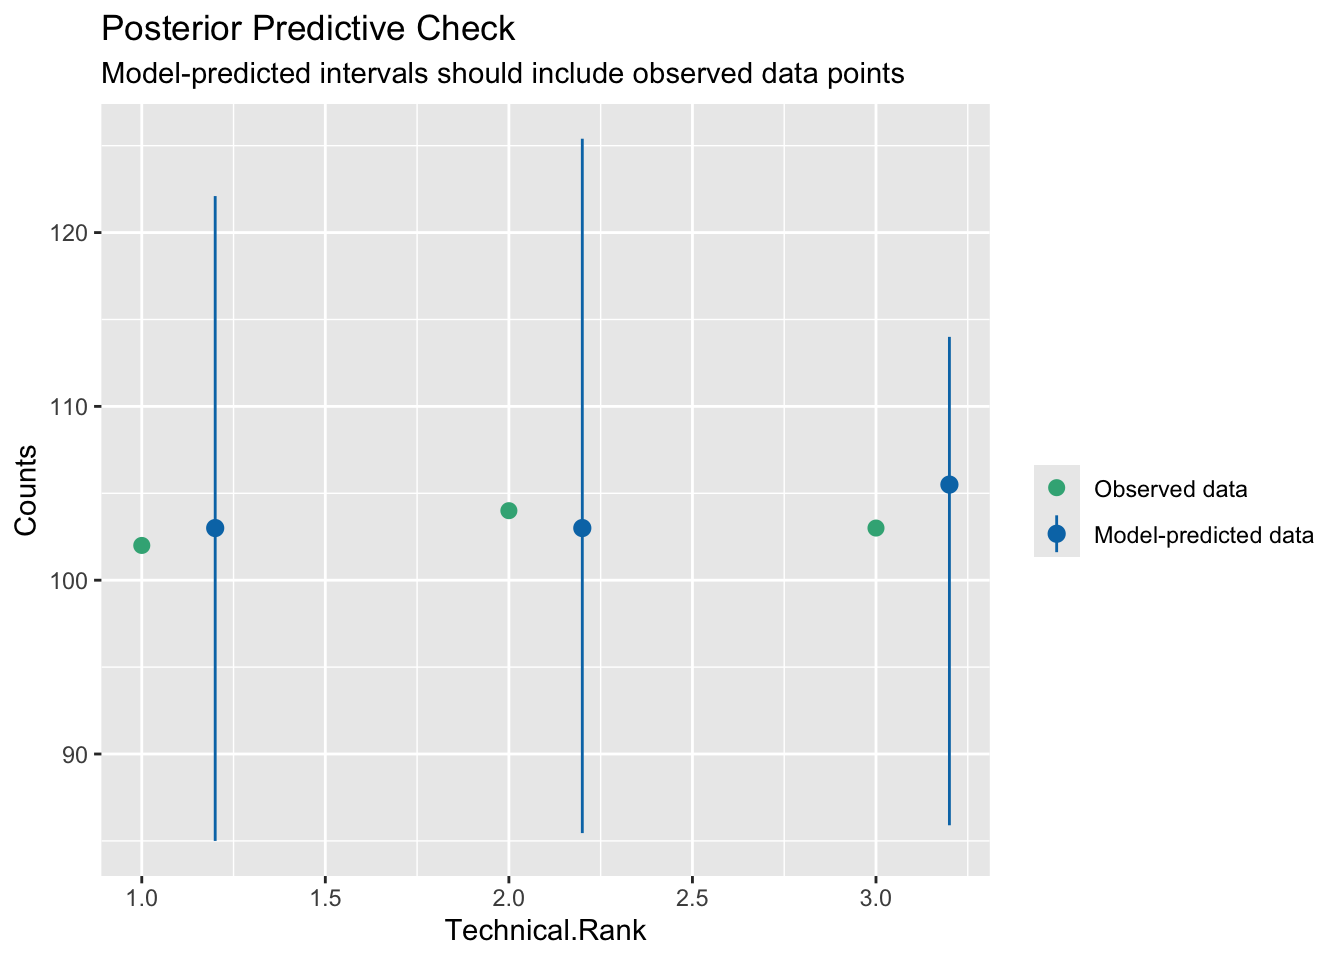
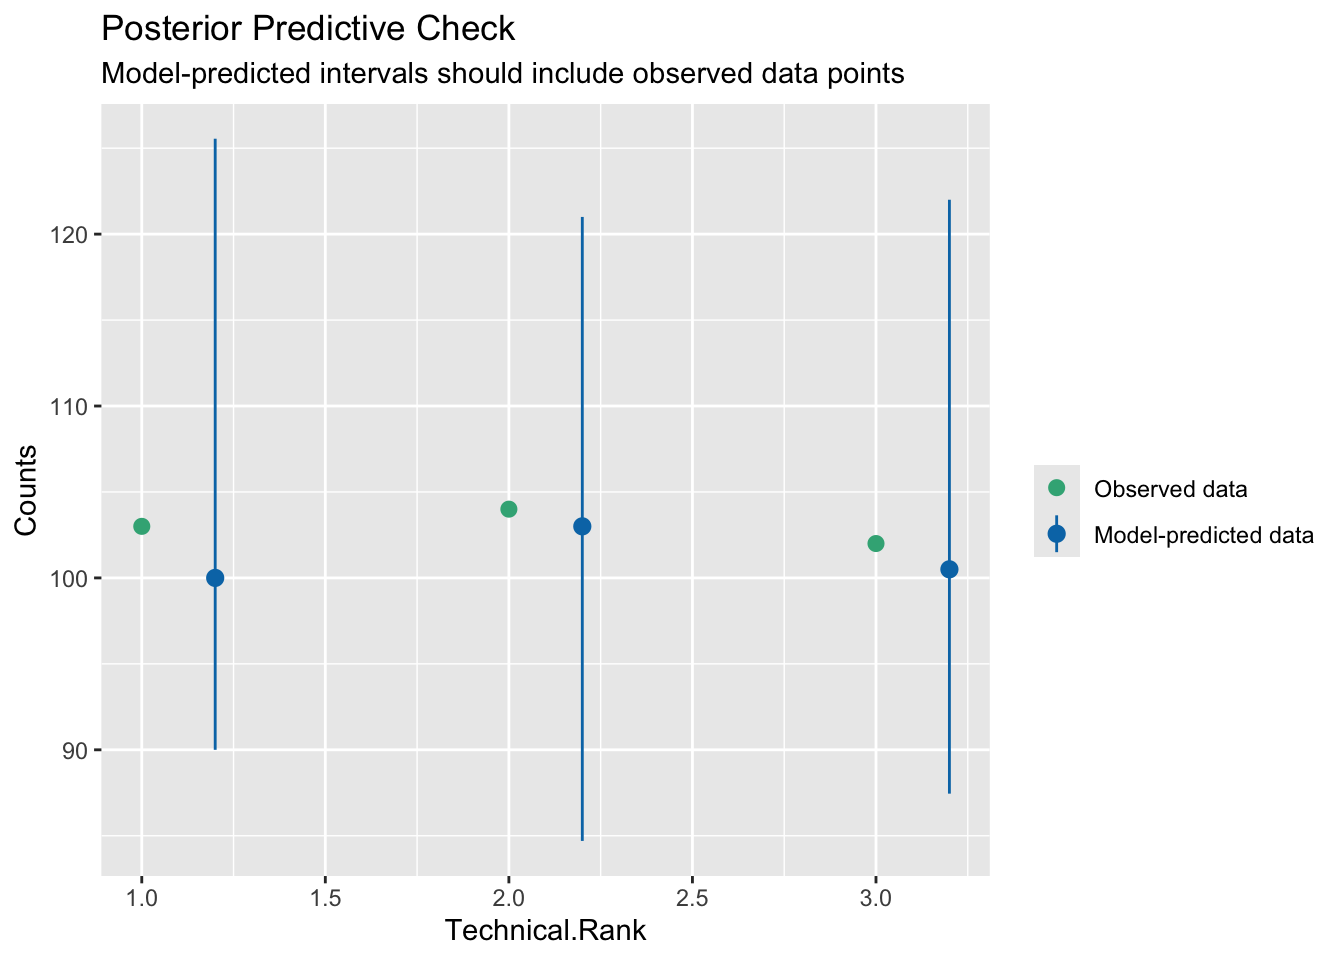
rendered

diff --git a/docs/posts/ord_lab_q.html b/docs/posts/ord_lab_q.html
@@ -263,14 +263,14 @@ pre > code.sourceCode > span > a:first-child::before { text-decoration: underlin
 <span id="cb4-2"><a href="#cb4-2" aria-hidden="true" tabindex="-1"></a>gbbo_age <span class="ot">&lt;-</span> gbbo_filter <span class="sc">%&gt;%</span></span>
 <span id="cb4-3"><a href="#cb4-3" aria-hidden="true" tabindex="-1"></a>  <span class="fu">group_by</span>(Age, Technical.Rank) <span class="sc">%&gt;%</span></span>
 <span id="cb4-4"><a href="#cb4-4" aria-hidden="true" tabindex="-1"></a>  <span class="fu">summarise</span>(<span class="at">count =</span> <span class="fu">n</span>(), <span class="at">.groups =</span> <span class="st">"drop"</span>) <span class="sc">%&gt;%</span></span>
-<span id="cb4-5"><a href="#cb4-5" aria-hidden="true" tabindex="-1"></a>  <span class="fu">group_by</span>(Technical.Rank) <span class="sc">%&gt;%</span></span>
+<span id="cb4-5"><a href="#cb4-5" aria-hidden="true" tabindex="-1"></a>  <span class="fu">group_by</span>(Age) <span class="sc">%&gt;%</span></span>
 <span id="cb4-6"><a href="#cb4-6" aria-hidden="true" tabindex="-1"></a>  <span class="fu">mutate</span>(<span class="at">percentage =</span> count <span class="sc">/</span> <span class="fu">sum</span>(count) <span class="sc">*</span> <span class="dv">100</span>)</span>
 <span id="cb4-7"><a href="#cb4-7" aria-hidden="true" tabindex="-1"></a></span>
 <span id="cb4-8"><a href="#cb4-8" aria-hidden="true" tabindex="-1"></a><span class="co"># Plot for Age</span></span>
-<span id="cb4-9"><a href="#cb4-9" aria-hidden="true" tabindex="-1"></a><span class="fu">ggplot</span>(gbbo_age, <span class="fu">aes</span>(<span class="at">x =</span> Technical.Rank, <span class="at">y =</span> percentage, <span class="at">fill =</span> Age)) <span class="sc">+</span></span>
-<span id="cb4-10"><a href="#cb4-10" aria-hidden="true" tabindex="-1"></a>  <span class="fu">geom_bar</span>(<span class="at">stat =</span> <span class="st">"identity"</span>) <span class="sc">+</span></span>
+<span id="cb4-9"><a href="#cb4-9" aria-hidden="true" tabindex="-1"></a><span class="fu">ggplot</span>(gbbo_age, <span class="fu">aes</span>(<span class="at">x =</span> Age, <span class="at">y =</span> percentage, <span class="at">fill =</span> Technical.Rank)) <span class="sc">+</span></span>
+<span id="cb4-10"><a href="#cb4-10" aria-hidden="true" tabindex="-1"></a>  <span class="fu">geom_histogram</span>(<span class="at">stat =</span> <span class="st">"identity"</span>) <span class="sc">+</span></span>
 <span id="cb4-11"><a href="#cb4-11" aria-hidden="true" tabindex="-1"></a>  <span class="fu">labs</span>(<span class="at">title =</span> <span class="st">"Percentage of Bakers by Rank and Age"</span>,</span>
-<span id="cb4-12"><a href="#cb4-12" aria-hidden="true" tabindex="-1"></a>       <span class="at">x =</span> <span class="st">"TechnicalRank"</span>,</span>
+<span id="cb4-12"><a href="#cb4-12" aria-hidden="true" tabindex="-1"></a>       <span class="at">x =</span> <span class="st">"Age"</span>,</span>
 <span id="cb4-13"><a href="#cb4-13" aria-hidden="true" tabindex="-1"></a>       <span class="at">y =</span> <span class="st">"Percentage"</span>)</span></code><button title="Copy to Clipboard" class="code-copy-button"><i class="bi"></i></button></pre></div>
 </details>
 <div class="cell-output-display">
@@ -284,54 +284,71 @@ pre > code.sourceCode > span > a:first-child::before { text-decoration: underlin
 </section>
 <section id="ordinal-analysis" class="level2">
 <h2 class="anchored" data-anchor-id="ordinal-analysis">Ordinal Analysis</h2>
-<ul>
-<li><p>If you haven’t already, convert the outcome variable to an ordered factor. What does the order here represent?</p>
-<ul>
-<li><p>Order is inverse where 1 is better than 2 which is better than 3</p>
 <div class="cell">
 <details class="code-fold">
 <summary>Code</summary>
-<div class="sourceCode cell-code" id="cb5"><pre class="sourceCode r code-with-copy"><code class="sourceCode r"><span id="cb5-1"><a href="#cb5-1" aria-hidden="true" tabindex="-1"></a>gbbo_filter<span class="sc">$</span>Technical.Rank <span class="ot">&lt;-</span> <span class="fu">factor</span>(gbbo_filter<span class="sc">$</span>Technical.Rank, <span class="at">levels =</span> <span class="fu">c</span>(<span class="st">"3"</span>, <span class="st">"2"</span>, <span class="st">"1"</span>), <span class="at">ordered =</span> <span class="cn">TRUE</span>) </span></code><button title="Copy to Clipboard" class="code-copy-button"><i class="bi"></i></button></pre></div>
+<div class="sourceCode cell-code" id="cb5"><pre class="sourceCode r code-with-copy"><code class="sourceCode r"><span id="cb5-1"><a href="#cb5-1" aria-hidden="true" tabindex="-1"></a>gbbo_filter <span class="ot">&lt;-</span> gbbo_filter <span class="sc">%&gt;%</span> </span>
+<span id="cb5-2"><a href="#cb5-2" aria-hidden="true" tabindex="-1"></a>    <span class="fu">mutate</span>(<span class="at">Technical.Rank =</span> <span class="fu">factor</span>(Technical.Rank, <span class="at">levels =</span> <span class="fu">c</span>(<span class="dv">1</span>, <span class="dv">2</span>, <span class="dv">3</span>), <span class="at">ordered =</span> <span class="cn">TRUE</span>),</span>
+<span id="cb5-3"><a href="#cb5-3" aria-hidden="true" tabindex="-1"></a>           <span class="at">Gender =</span> <span class="fu">factor</span>(Gender))</span></code><button title="Copy to Clipboard" class="code-copy-button"><i class="bi"></i></button></pre></div>
 </details>
-</div></li>
-</ul></li>
-<li><p>Convert input variables to categorical factors as appropriate.</p>
-<div class="cell">
-<details class="code-fold">
-<summary>Code</summary>
-<div class="sourceCode cell-code" id="cb6"><pre class="sourceCode r code-with-copy"><code class="sourceCode r"><span id="cb6-1"><a href="#cb6-1" aria-hidden="true" tabindex="-1"></a><span class="fu">str</span>(gbbo_filter)</span></code><button title="Copy to Clipboard" class="code-copy-button"><i class="bi"></i></button></pre></div>
-</details>
-<div class="cell-output cell-output-stdout">
-<pre><code>'data.frame':   309 obs. of  3 variables:
- $ Gender        : chr  "F" "M" "M" "F" ...
- $ Age           : int  30 31 24 45 25 37 24 37 31 24 ...
- $ Technical.Rank: Ord.factor w/ 3 levels "3"&lt;"2"&lt;"1": 2 1 3 2 3 1 3 1 2 1 ...</code></pre>
 </div>
+<ul>
+<li><p>Convert input variables to categorical factors as appropriate (done in code above)</p>
+<div class="cell">
+<details class="code-fold">
+<summary>Code</summary>
+<div class="sourceCode cell-code" id="cb6"><pre class="sourceCode r code-with-copy"><code class="sourceCode r"><span id="cb6-1"><a href="#cb6-1" aria-hidden="true" tabindex="-1"></a><span class="do">## done in code above</span></span></code><button title="Copy to Clipboard" class="code-copy-button"><i class="bi"></i></button></pre></div>
+</details>
 </div></li>
 <li><p>Run a ordinal logistic regression model against all relevant input variables. Interpret the effects for <code>Gender</code>, <code>Age</code> and <code>Gender*Age</code> (even if they are non-significant).</p>
 <div class="cell">
 <details class="code-fold">
 <summary>Code</summary>
-<div class="sourceCode cell-code" id="cb8"><pre class="sourceCode r code-with-copy"><code class="sourceCode r"><span id="cb8-1"><a href="#cb8-1" aria-hidden="true" tabindex="-1"></a>m <span class="ot">&lt;-</span> MASS<span class="sc">::</span><span class="fu">polr</span>(Technical.Rank <span class="sc">~</span> Gender <span class="sc">+</span> Age <span class="sc">+</span> Gender<span class="sc">*</span>Age, <span class="at">data =</span> gbbo_filter, <span class="at">Hess=</span><span class="cn">TRUE</span>)</span>
-<span id="cb8-2"><a href="#cb8-2" aria-hidden="true" tabindex="-1"></a></span>
-<span id="cb8-3"><a href="#cb8-3" aria-hidden="true" tabindex="-1"></a><span class="do">## view a summary of the model</span></span>
-<span id="cb8-4"><a href="#cb8-4" aria-hidden="true" tabindex="-1"></a>m <span class="sc">%&gt;%</span> </span>
-<span id="cb8-5"><a href="#cb8-5" aria-hidden="true" tabindex="-1"></a>  <span class="fu">tidy</span>()</span></code><button title="Copy to Clipboard" class="code-copy-button"><i class="bi"></i></button></pre></div>
+<div class="sourceCode cell-code" id="cb7"><pre class="sourceCode r code-with-copy"><code class="sourceCode r"><span id="cb7-1"><a href="#cb7-1" aria-hidden="true" tabindex="-1"></a>m <span class="ot">&lt;-</span> <span class="fu">clm</span>(Technical.Rank <span class="sc">~</span> Gender <span class="sc">+</span> Age <span class="sc">+</span> Gender<span class="sc">*</span>Age, <span class="at">data =</span> gbbo_filter)</span>
+<span id="cb7-2"><a href="#cb7-2" aria-hidden="true" tabindex="-1"></a></span>
+<span id="cb7-3"><a href="#cb7-3" aria-hidden="true" tabindex="-1"></a><span class="do">## view a summary of the model</span></span>
+<span id="cb7-4"><a href="#cb7-4" aria-hidden="true" tabindex="-1"></a>m <span class="sc">%&gt;%</span> </span>
+<span id="cb7-5"><a href="#cb7-5" aria-hidden="true" tabindex="-1"></a>  <span class="fu">tidy</span>()</span></code><button title="Copy to Clipboard" class="code-copy-button"><i class="bi"></i></button></pre></div>
 </details>
 <div class="cell-output cell-output-stdout">
-<pre><code># A tibble: 5 × 5
-  term        estimate std.error statistic coef.type  
-  &lt;chr&gt;          &lt;dbl&gt;     &lt;dbl&gt;     &lt;dbl&gt; &lt;chr&gt;      
-1 GenderM      1.15       0.673     1.71   coefficient
-2 Age          0.0231     0.0125    1.85   coefficient
-3 GenderM:Age -0.0388     0.0185   -2.09   coefficient
-4 3|2         -0.00495    0.452    -0.0109 scale      
-5 2|1          1.42       0.460     3.08   scale      </code></pre>
+<pre><code># A tibble: 5 × 6
+  term        estimate std.error statistic p.value coef.type
+  &lt;chr&gt;          &lt;dbl&gt;     &lt;dbl&gt;     &lt;dbl&gt;   &lt;dbl&gt; &lt;chr&gt;    
+1 1|2         -1.42       0.460    -3.08   0.00205 intercept
+2 2|3          0.00494    0.452     0.0109 0.991   intercept
+3 GenderM     -1.15       0.673    -1.71   0.0876  location 
+4 Age         -0.0231     0.0125   -1.85   0.0636  location 
+5 GenderM:Age  0.0388     0.0185    2.09   0.0363  location </code></pre>
 </div>
 </div></li>
 <li><p>Test if the interaction is warranted</p></li>
 </ul>
 <p>#Hint: You need to create two models with clm(); one with interaction and one without. #Then you compare them using the anova test using anova()</p>
+<div class="cell">
+<details class="code-fold">
+<summary>Code</summary>
+<div class="sourceCode cell-code" id="cb9"><pre class="sourceCode r code-with-copy"><code class="sourceCode r"><span id="cb9-1"><a href="#cb9-1" aria-hidden="true" tabindex="-1"></a>m <span class="ot">&lt;-</span> <span class="fu">clm</span>(Technical.Rank <span class="sc">~</span> Gender <span class="sc">*</span> Age, <span class="at">data =</span> gbbo_filter)</span>
+<span id="cb9-2"><a href="#cb9-2" aria-hidden="true" tabindex="-1"></a></span>
+<span id="cb9-3"><a href="#cb9-3" aria-hidden="true" tabindex="-1"></a>m0 <span class="ot">&lt;-</span> <span class="fu">clm</span>(Technical.Rank <span class="sc">~</span> Gender <span class="sc">+</span> Age, <span class="at">data =</span> gbbo_filter)</span>
+<span id="cb9-4"><a href="#cb9-4" aria-hidden="true" tabindex="-1"></a></span>
+<span id="cb9-5"><a href="#cb9-5" aria-hidden="true" tabindex="-1"></a><span class="co"># Compare the two models using ANOVA</span></span>
+<span id="cb9-6"><a href="#cb9-6" aria-hidden="true" tabindex="-1"></a>comparing <span class="ot">&lt;-</span> <span class="fu">anova</span>(m, m0)</span>
+<span id="cb9-7"><a href="#cb9-7" aria-hidden="true" tabindex="-1"></a>comparing <span class="sc">%&gt;%</span></span>
+<span id="cb9-8"><a href="#cb9-8" aria-hidden="true" tabindex="-1"></a>  <span class="fu">tidy</span>()</span></code><button title="Copy to Clipboard" class="code-copy-button"><i class="bi"></i></button></pre></div>
+</details>
+<div class="cell-output cell-output-stdout">
+<pre><code># A tibble: 6 × 13
+  column       n     mean     sd   median  trimmed   mad      min      max range
+  &lt;chr&gt;    &lt;dbl&gt;    &lt;dbl&gt;  &lt;dbl&gt;    &lt;dbl&gt;    &lt;dbl&gt; &lt;dbl&gt;    &lt;dbl&gt;    &lt;dbl&gt; &lt;dbl&gt;
+1 no.par       2  4.5 e+0  0.707  4.5 e+0  4.5 e+0  0.5   4   e+0  5   e+0  1   
+2 AIC          2  6.85e+2  1.72   6.85e+2  6.85e+2  1.22  6.83e+2  6.86e+2  2.44
+3 logLik       2 -3.38e+2  1.57  -3.38e+2 -3.38e+2  1.11 -3.39e+2 -3.37e+2  2.22
+4 LR.stat      1  4.44e+0 NA      4.44e+0  4.44e+0  0     4.44e+0  4.44e+0  0   
+5 df           1  1   e+0 NA      1   e+0  1   e+0  0     1   e+0  1   e+0  0   
+6 Pr(&gt;Chi…     1  3.52e-2 NA      3.52e-2  3.52e-2  0     3.52e-2  3.52e-2  0   
+# ℹ 3 more variables: skew &lt;dbl&gt;, kurtosis &lt;dbl&gt;, se &lt;dbl&gt;</code></pre>
+</div>
+</div>
 <ul>
 <li><p>Use <code>ggemmeans</code> to create a figure showing the interaction between <code>Gender</code> and <code>Age</code> as a function of rank. Plot predicted probabilities from the model.</p></li>
 </ul>
@@ -340,10 +357,10 @@ pre > code.sourceCode > span > a:first-child::before { text-decoration: underlin
 <div class="cell">
 <details class="code-fold">
 <summary>Code</summary>
-<div class="sourceCode cell-code" id="cb10"><pre class="sourceCode r code-with-copy"><code class="sourceCode r"><span id="cb10-1"><a href="#cb10-1" aria-hidden="true" tabindex="-1"></a>ols_clm <span class="ot">=</span> MASS<span class="sc">::</span><span class="fu">polr</span>(Technical.Rank<span class="sc">~</span>Gender<span class="sc">*</span>Age, <span class="at">data=</span>gbbo_filter)</span>
-<span id="cb10-2"><a href="#cb10-2" aria-hidden="true" tabindex="-1"></a></span>
-<span id="cb10-3"><a href="#cb10-3" aria-hidden="true" tabindex="-1"></a></span>
-<span id="cb10-4"><a href="#cb10-4" aria-hidden="true" tabindex="-1"></a><span class="fu">ggeffect</span>(ols_clm, <span class="fu">c</span>(<span class="st">"Age[all]"</span>, <span class="st">"Gender"</span>), <span class="at">latent=</span><span class="cn">TRUE</span>) <span class="sc">%&gt;%</span> <span class="fu">plot</span>()</span></code><button title="Copy to Clipboard" class="code-copy-button"><i class="bi"></i></button></pre></div>
+<div class="sourceCode cell-code" id="cb11"><pre class="sourceCode r code-with-copy"><code class="sourceCode r"><span id="cb11-1"><a href="#cb11-1" aria-hidden="true" tabindex="-1"></a>ols_clm <span class="ot">=</span> MASS<span class="sc">::</span><span class="fu">polr</span>(Technical.Rank<span class="sc">~</span>Gender<span class="sc">*</span>Age, <span class="at">data=</span>gbbo_filter)</span>
+<span id="cb11-2"><a href="#cb11-2" aria-hidden="true" tabindex="-1"></a></span>
+<span id="cb11-3"><a href="#cb11-3" aria-hidden="true" tabindex="-1"></a></span>
+<span id="cb11-4"><a href="#cb11-4" aria-hidden="true" tabindex="-1"></a><span class="fu">ggeffect</span>(ols_clm, <span class="fu">c</span>(<span class="st">"Age[all]"</span>, <span class="st">"Gender"</span>), <span class="at">latent=</span><span class="cn">TRUE</span>) <span class="sc">%&gt;%</span> <span class="fu">plot</span>()</span></code><button title="Copy to Clipboard" class="code-copy-button"><i class="bi"></i></button></pre></div>
 </details>
 <div class="cell-output-display">
 <div>
@@ -358,7 +375,7 @@ pre > code.sourceCode > span > a:first-child::before { text-decoration: underlin
 <div class="cell">
 <details class="code-fold">
 <summary>Code</summary>
-<div class="sourceCode cell-code" id="cb11"><pre class="sourceCode r code-with-copy"><code class="sourceCode r"><span id="cb11-1"><a href="#cb11-1" aria-hidden="true" tabindex="-1"></a><span class="fu">brant.test</span>(ols_clm)</span></code><button title="Copy to Clipboard" class="code-copy-button"><i class="bi"></i></button></pre></div>
+<div class="sourceCode cell-code" id="cb12"><pre class="sourceCode r code-with-copy"><code class="sourceCode r"><span id="cb12-1"><a href="#cb12-1" aria-hidden="true" tabindex="-1"></a><span class="fu">brant.test</span>(ols_clm)</span></code><button title="Copy to Clipboard" class="code-copy-button"><i class="bi"></i></button></pre></div>
 </details>
 <div class="cell-output cell-output-stdout">
 <pre><code>
@@ -378,7 +395,7 @@ H0: Proportional odds assumption holds</code></pre>
 <div class="cell">
 <details class="code-fold">
 <summary>Code</summary>
-<div class="sourceCode cell-code" id="cb13"><pre class="sourceCode r code-with-copy"><code class="sourceCode r"><span id="cb13-1"><a href="#cb13-1" aria-hidden="true" tabindex="-1"></a>  ols2_brm <span class="ot">=</span> <span class="fu">brm</span>(Technical.Rank <span class="sc">~</span>  Gender<span class="sc">*</span>Age, <span class="at">data=</span>gbbo_filter, <span class="at">family =</span> cumulative, <span class="at">cores =</span> <span class="dv">4</span>,<span class="at">chains =</span> <span class="dv">4</span>)</span></code><button title="Copy to Clipboard" class="code-copy-button"><i class="bi"></i></button></pre></div>
+<div class="sourceCode cell-code" id="cb14"><pre class="sourceCode r code-with-copy"><code class="sourceCode r"><span id="cb14-1"><a href="#cb14-1" aria-hidden="true" tabindex="-1"></a>  ols2_brm <span class="ot">=</span> <span class="fu">brm</span>(Technical.Rank <span class="sc">~</span>  Gender<span class="sc">*</span>Age, <span class="at">data=</span>gbbo_filter, <span class="at">family =</span> cumulative, <span class="at">cores =</span> <span class="dv">4</span>,<span class="at">chains =</span> <span class="dv">4</span>)</span></code><button title="Copy to Clipboard" class="code-copy-button"><i class="bi"></i></button></pre></div>
 </details>
 </div>
 <ul>
@@ -386,7 +403,7 @@ H0: Proportional odds assumption holds</code></pre>
 <div class="cell">
 <details class="code-fold">
 <summary>Code</summary>
-<div class="sourceCode cell-code" id="cb14"><pre class="sourceCode r code-with-copy"><code class="sourceCode r"><span id="cb14-1"><a href="#cb14-1" aria-hidden="true" tabindex="-1"></a><span class="fu">conditional_effects</span>(ols2_brm, <span class="at">categorical =</span> T)</span></code><button title="Copy to Clipboard" class="code-copy-button"><i class="bi"></i></button></pre></div>
+<div class="sourceCode cell-code" id="cb15"><pre class="sourceCode r code-with-copy"><code class="sourceCode r"><span id="cb15-1"><a href="#cb15-1" aria-hidden="true" tabindex="-1"></a><span class="fu">conditional_effects</span>(ols2_brm, <span class="at">categorical =</span> T)</span></code><button title="Copy to Clipboard" class="code-copy-button"><i class="bi"></i></button></pre></div>
 </details>
 <div class="cell-output-display">
 <div>
@@ -408,7 +425,7 @@ H0: Proportional odds assumption holds</code></pre>
 <div class="cell">
 <details class="code-fold">
 <summary>Code</summary>
-<div class="sourceCode cell-code" id="cb15"><pre class="sourceCode r code-with-copy"><code class="sourceCode r"><span id="cb15-1"><a href="#cb15-1" aria-hidden="true" tabindex="-1"></a><span class="fu">check_predictions</span>(ols2_brm)</span></code><button title="Copy to Clipboard" class="code-copy-button"><i class="bi"></i></button></pre></div>
+<div class="sourceCode cell-code" id="cb16"><pre class="sourceCode r code-with-copy"><code class="sourceCode r"><span id="cb16-1"><a href="#cb16-1" aria-hidden="true" tabindex="-1"></a><span class="fu">check_predictions</span>(ols2_brm)</span></code><button title="Copy to Clipboard" class="code-copy-button"><i class="bi"></i></button></pre></div>
 </details>
 <div class="cell-output-display">
 <div>
@@ -418,6 +435,7 @@ H0: Proportional odds assumption holds</code></pre>
 </div>
 </div>
 </div>
+<p>Yeah I would say the model fit is pretty great</p>
 
 
 </section>

diff --git a/docs/index.html b/docs/index.html
@@ -205,29 +205,7 @@ window.Quarto = {
 
 <div class="quarto-listing quarto-listing-container-default" id="listing-listing">
 <div class="list quarto-listing-default">
-<div class="quarto-post image-right" data-index="0" data-listing-file-modified-sort="1740086780326" data-listing-reading-time-sort="5" data-listing-word-count-sort="981">
-<div class="thumbnail">
-<p><a href="./posts/ordinal/ord_lab_q.html" class="no-external"></a></p><a href="./posts/ordinal/ord_lab_q.html" class="no-external">
-<p class="card-img-top"><img src="posts/ordinal/ord_lab_q_files/figure-html/unnamed-chunk-3-1.png"  class="thumbnail-image card-img"/></p>
-</a><p><a href="./posts/ordinal/ord_lab_q.html" class="no-external"></a></p>
-</div>
-<div class="body">
-<h3 class="no-anchor listing-title">
-<a href="./posts/ordinal/ord_lab_q.html" class="no-external">Ordinal Regression Lab Answers</a>
-</h3>
-<div class="listing-subtitle">
-<a href="./posts/ordinal/ord_lab_q.html" class="no-external"></a>
-</div>
-<div class="listing-description">
-<a href="./posts/ordinal/ord_lab_q.html" class="no-external">If you are fitting a model, display the model output in a neatly formatted table. (The <code>tidy</code> and <code>kable</code> functions can help!)</a>
-</div>
-</div>
-<div class="metadata">
-<p><a href="./posts/ordinal/ord_lab_q.html" class="no-external"></a></p><a href="./posts/ordinal/ord_lab_q.html" class="no-external">
-</a>
-</div>
-</div>
-<div class="quarto-post image-right" data-index="1" data-listing-file-modified-sort="1739749189866" data-listing-reading-time-sort="17" data-listing-word-count-sort="3307">
+<div class="quarto-post image-right" data-index="0" data-listing-file-modified-sort="1739749189866" data-listing-reading-time-sort="17" data-listing-word-count-sort="3307">
 <div class="thumbnail">
 <p><a href="./posts/Lab-Logistic-Q.html" class="no-external"></a></p><a href="./posts/Lab-Logistic-Q.html" class="no-external">
 <p class="card-img-top"><img src="posts/Lab-Logistic-Q_files/figure-html/unnamed-chunk-4-1.png"  class="thumbnail-image card-img"/></p>
@@ -249,6 +227,28 @@ window.Quarto = {
 <div class="listing-author">
 Chantal Valdivia-Moreno
 </div>
+</a>
+</div>
+</div>
+<div class="quarto-post image-right" data-index="1" data-listing-file-modified-sort="1740086780326" data-listing-reading-time-sort="5" data-listing-word-count-sort="981">
+<div class="thumbnail">
+<p><a href="./posts/ord_lab_q.html" class="no-external"></a></p><a href="./posts/ord_lab_q.html" class="no-external">
+<p class="card-img-top"><img src="posts/ord_lab_q_files/figure-html/unnamed-chunk-3-1.png"  class="thumbnail-image card-img"/></p>
+</a><p><a href="./posts/ord_lab_q.html" class="no-external"></a></p>
+</div>
+<div class="body">
+<h3 class="no-anchor listing-title">
+<a href="./posts/ord_lab_q.html" class="no-external">Ordinal Regression Lab Answers</a>
+</h3>
+<div class="listing-subtitle">
+<a href="./posts/ord_lab_q.html" class="no-external"></a>
+</div>
+<div class="listing-description">
+<a href="./posts/ord_lab_q.html" class="no-external">If you are fitting a model, display the model output in a neatly formatted table. (The <code>tidy</code> and <code>kable</code> functions can help!)</a>
+</div>
+</div>
+<div class="metadata">
+<p><a href="./posts/ord_lab_q.html" class="no-external"></a></p><a href="./posts/ord_lab_q.html" class="no-external">
 </a>
 </div>
 </div>
